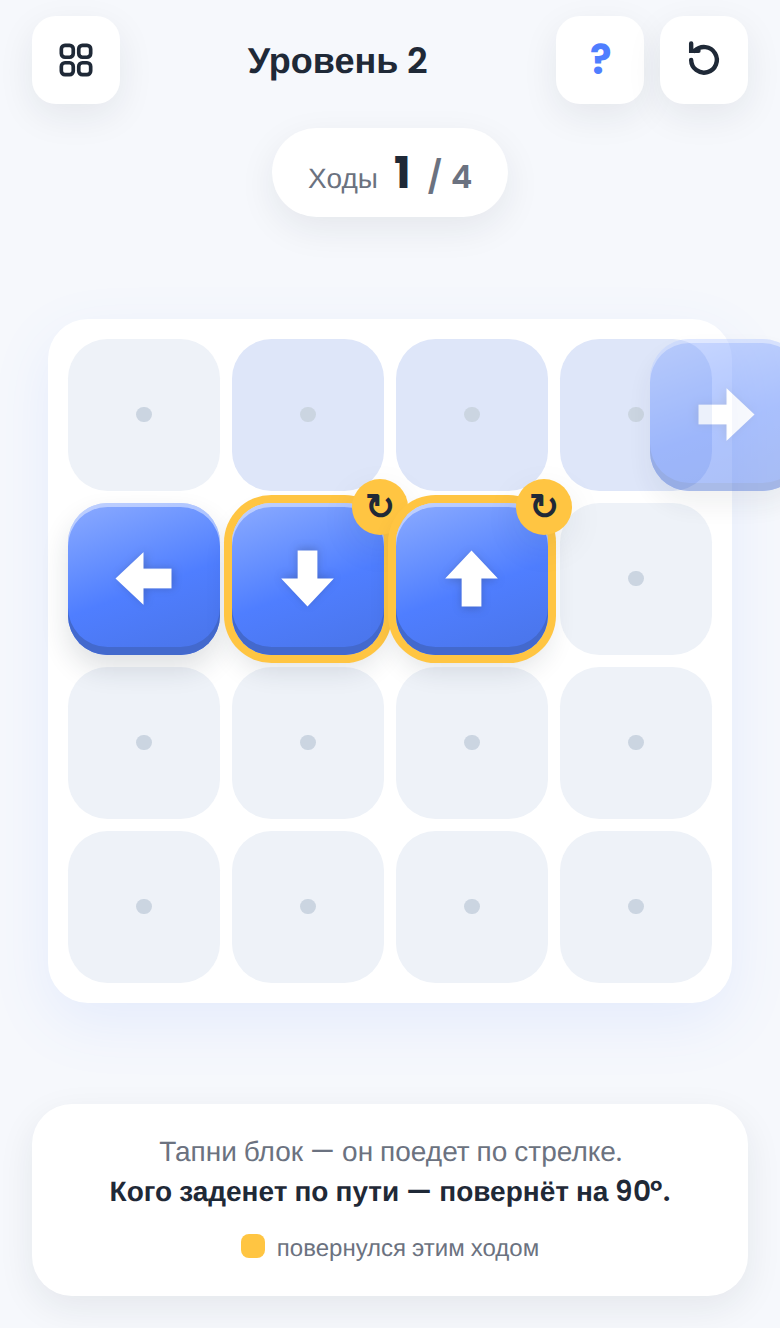
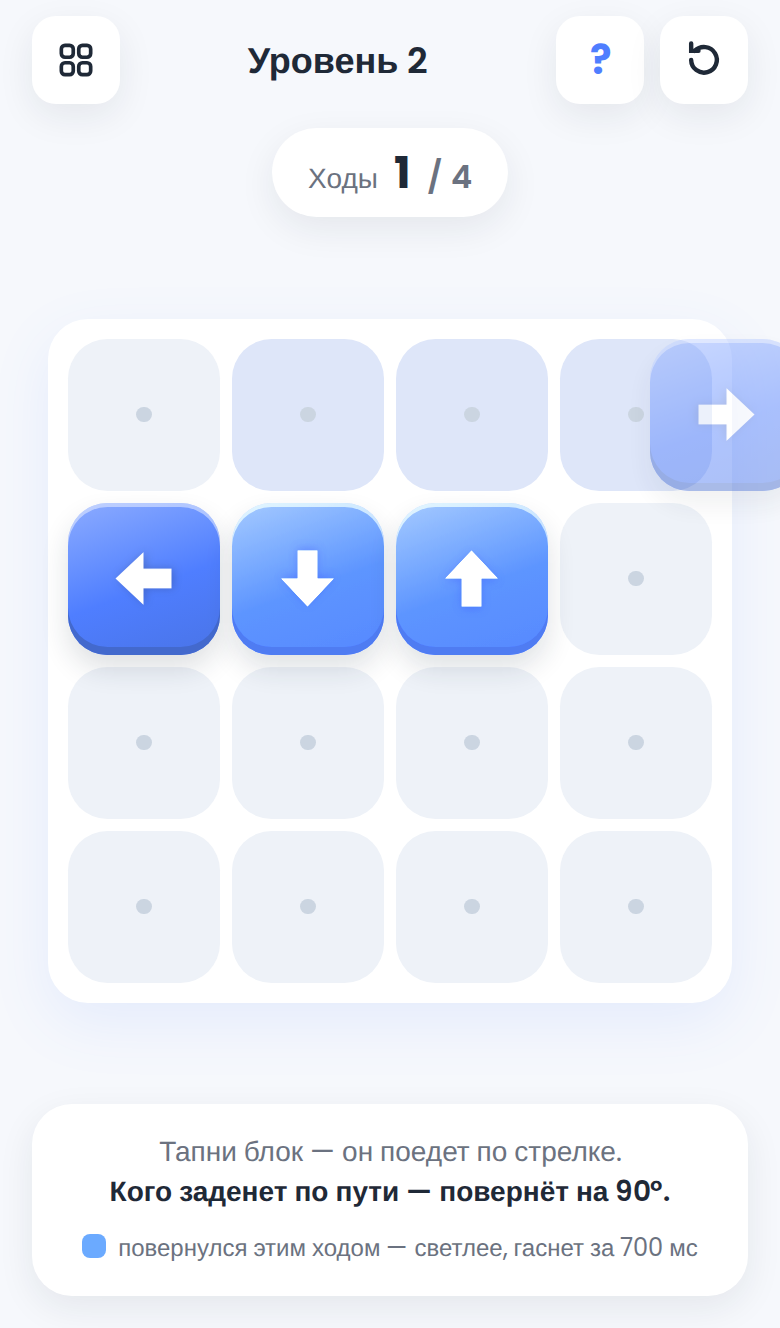
Arrow Flip: replace turn ring/badge with a brightness glow
Touched blocks no longer get a yellow ring and a rotate icon. Instead the
tile itself brightens the instant it's touched and eases back to its
normal color over 700ms — the mark and the payoff live on the tile, not
on a separate decoration. Updated the spec (§7, §7.1, §7.2), the live
animation demo, and the §7.1 screen sketch to match.

Claude-Session: https://claude.ai/code/session_013LEWVKUv7EGdfryuzFhR4H

Changed region(s): [[0.2769, 0.3396, 0.7385, 0.5248], [0.0923, 0.9262, 0.8923, 0.9571]]

diff --git a/UI Design/prototypes/arrow-flip/animation-demo.html b/UI Design/prototypes/arrow-flip/animation-demo.html
@@ -48,10 +48,8 @@
     background: linear-gradient(160deg, color-mix(in srgb, var(--c) 65%, #fff), var(--c) 55%, color-mix(in srgb, var(--c) 88%, #1f2937));
     box-shadow: var(--ui-shadow-tile), inset 0 -4px 0 color-mix(in srgb, var(--c) 75%, #1f2937), inset 0 2px 0 rgba(255,255,255,.45);
     display: grid; place-items: center; will-change: transform; cursor: pointer; }
-  .ring { position: absolute; inset: -4px; border-radius: 28%; box-shadow: 0 0 0 4px var(--ui-yellow); opacity: 0; transition: opacity 150ms ease; pointer-events: none; }
-  .spin { position: absolute; top: -10px; right: -10px; width: 26px; height: 26px; border-radius: 50%; background: var(--ui-yellow); box-shadow: var(--ui-shadow-soft); display: grid; place-items: center; font-size: 17px; font-weight: 700; line-height: 1; color: var(--ui-text); opacity: 0; transform: scale(.6); transition: opacity 150ms ease, transform 150ms ease; pointer-events: none; }
-  .block.turned .ring, .block.turned .spin { opacity: 1; }
-  .block.turned .spin { transform: scale(1); }
+  /* Отметка "повернулся": сам квадрат на миг светлеет и гаснет обратно к
+     обычному цвету — filter:brightness через Web Animations, см. fire(). */
   .arrow { width: 52%; height: 52%; will-change: transform; filter: drop-shadow(0 1px 2px rgba(31,41,55,.25)); }
   .blocker-flash { animation: flash 260ms ease; }
   @keyframes flash { 50% { filter: brightness(1.18); } }
@@ -102,6 +100,8 @@ const T = {
   lead: 0.35,        // сбоку: поворот стартует, когда центру ехавшего осталось 0,35 клетки до соседа
   rotate: 320,       // длительность поворота стрелки
   rotateEase: 'cubic-bezier(.34,1.5,.52,1)', // лёгкий перелёт ~6° и возврат
+  glowPeak: 1.35,     // пиковая яркость повёрнутого блока
+  glow: 700,          // мс, за которые свечение гаснет обратно к обычному цвету
   shake: 160,
 };
 let slow = 1;
@@ -131,7 +131,7 @@ function load(i) {
   blocks = LEVELS[i].blocks.map(([id, row, col, dir]) => {
     const el = document.createElement('div');
     el.className = 'block';
-    el.innerHTML = '<div class="ring"></div><svg class="arrow"><use href="#arrow"/></svg><div class="spin">↻</div>';
+    el.innerHTML = '<svg class="arrow"><use href="#arrow"/></svg>';
     const b = { id, row, col, dir, angle: DEG[dir], el, arrow: el.querySelector('.arrow') };
     b.arrow.style.transform = `rotate(${b.angle}deg)`;
     el.addEventListener('pointerdown', () => tap(b));
@@ -178,7 +178,6 @@ function tap(b) {
   });
 
   busy = true;
-  blocks.forEach((x) => x.el.classList.remove('turned'));
   const steps = path.length - 1;
   const cellT = T.cell * slow;
   const [x0, y0] = xy(b.row, b.col);
@@ -208,10 +207,12 @@ function tap(b) {
   const fire = (tr) => {
     tr.fired = true;
     const n = tr.n, to = n.angle, from = to - 90;
-    n.el.classList.add('turned');
     n.arrow.animate([{ transform: `rotate(${from}deg)` }, { transform: `rotate(${to}deg)` }],
       { duration: T.rotate * slow, easing: T.rotateEase, fill: 'forwards' })
       .finished.then(() => { n.arrow.style.transform = `rotate(${to}deg)`; });
+    // Свечение: квадрат мгновенно светлеет и плавно, дольше поворота, гаснет к обычному цвету.
+    n.el.animate([{ filter: `brightness(${T.glowPeak})` }, { filter: 'brightness(1)' }],
+      { duration: T.glow * slow, easing: 'ease-out' });
   };
   let pending = triggers.length;
   const t0 = performance.now();

diff --git a/UI Design/prototypes/arrow-flip/mockup.html b/UI Design/prototypes/arrow-flip/mockup.html
@@ -8,7 +8,8 @@
 <style>
   /* Скетч игрового экрана для specs/36-arrow-flip.md §7.1.
      Уровень 2, сразу после первого хода: блок 0 уехал вправо за край,
-     по дороге коснулся блоков 2 и 3 — они повернулись на 90° по часовой. */
+     по дороге коснулся блоков 2 и 3 — они повернулись на 90° по часовой и
+     ещё светлее обычного (свечение на середине угасания, §7.2 спеки). */
   :root { --cell: 76px; }
   * { box-sizing: border-box; margin: 0; padding: 0; }
   html, body { height: 100%; overflow: hidden; }
@@ -38,10 +39,9 @@
     display: grid; place-items: center; }
   .block svg { width: 52%; height: 52%; filter: drop-shadow(0 1px 2px rgba(31,41,55,.25)); }
   .block.stuck { --c: var(--ui-blue); }
-  /* Только что повернулся: жёлтое кольцо и дуга поворота, держатся до следующего тапа. */
-  .block.turned { box-shadow: 0 0 0 4px var(--ui-yellow), var(--ui-shadow-tile), inset 0 -4px 0 color-mix(in srgb, var(--c) 75%, #1f2937), inset 0 2px 0 rgba(255,255,255,.45); }
-  .spin { position: absolute; top: -12px; right: -12px; width: 28px; height: 28px; border-radius: 50%; background: var(--ui-yellow); box-shadow: var(--ui-shadow-soft); display: grid; place-items: center; }
-  .spin { font-size: 18px; font-weight: 700; line-height: 1; color: var(--ui-text); }
+  /* Только что повернулся: квадрат светлее обычного — filter: brightness(),
+     на скетче застигнуто на середине угасания к обычному цвету (§7.2). */
+  .block.turned { filter: brightness(1.18); }
   /* Уезжающий блок — полупрозрачный, за правым краем поля. */
   .block.leaving { opacity: .45; }
 
@@ -75,7 +75,7 @@
 
   <div class="hint-card">
     Тапни блок — он поедет по стрелке.<br><b>Кого заденет по пути — повернёт на 90°.</b>
-    <div class="legend"><span><i style="background:var(--ui-yellow)"></i>повернулся этим ходом</span></div>
+    <div class="legend"><span><i style="background:var(--ui-blue);filter:brightness(1.35)"></i>повернулся этим ходом — светлее, гаснет за 700 мс</span></div>
   </div>
 </div>
 <script>
@@ -98,8 +98,7 @@
     el.className = 'block' + (b.turned ? ' turned' : '') + (b.leaving ? ' leaving' : '');
     el.style.left = pad + b.c * (cell + gap) + 'px';
     el.style.top = pad + b.r * (cell + gap) + 'px';
-    el.innerHTML = `<svg style="transform:rotate(${b.deg}deg)"><use href="#arrow"/></svg>` +
-      (b.turned ? '<div class="spin">↻</div>' : '');
+    el.innerHTML = `<svg style="transform:rotate(${b.deg}deg)"><use href="#arrow"/></svg>`;
     board.appendChild(el);
   }
 </script>

diff --git a/UI Design/prototypes/arrow-flip/README.md b/UI Design/prototypes/arrow-flip/README.md
@@ -4,13 +4,15 @@
 
 - `game-screen.png` — скетч игрового экрана, 390×664: уровень 2 сразу после
   первого хода. Блок 0 уезжает вправо за край, по дороге задел блоки 2 и 3 —
-  они повернулись на 90° по часовой и отмечены жёлтым кольцом.
+  они повернулись на 90° по часовой и застигнуты чуть светлее обычного, на
+  середине угасания свечения (§7.2 спеки).
 - `mockup.html` — исходник скетча. Пересобрать PNG:
   `headless_shell --window-size=390,664 --force-device-scale-factor=2 --screenshot=game-screen.png mockup.html`.
 
 Новые объекты собраны из токенов кита: блок — тайл «Обычный» синего цвета с
-белой стрелкой; отметка «повернулся этим ходом» — кольцо `--ui-yellow` и
-жёлтый кружок со значком ↻. Новых цветов, радиусов и теней нет.
+белой стрелкой; отметка «повернулся этим ходом» — тот же тайл, на миг светлее
+(`filter: brightness`), гаснущий обратно к обычному цвету за 700 мс. Новых
+цветов, радиусов и теней нет.
 
 ## Анимация хода
 
